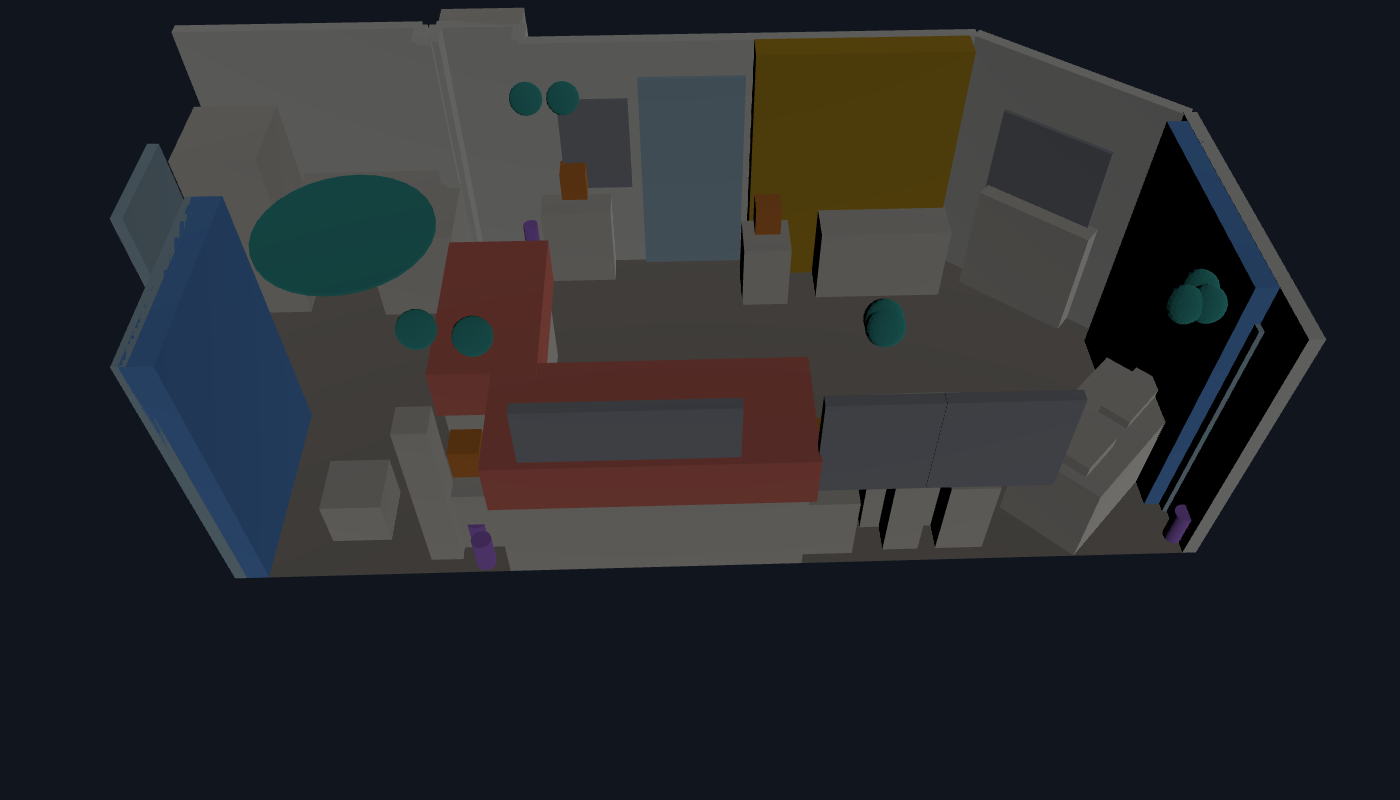
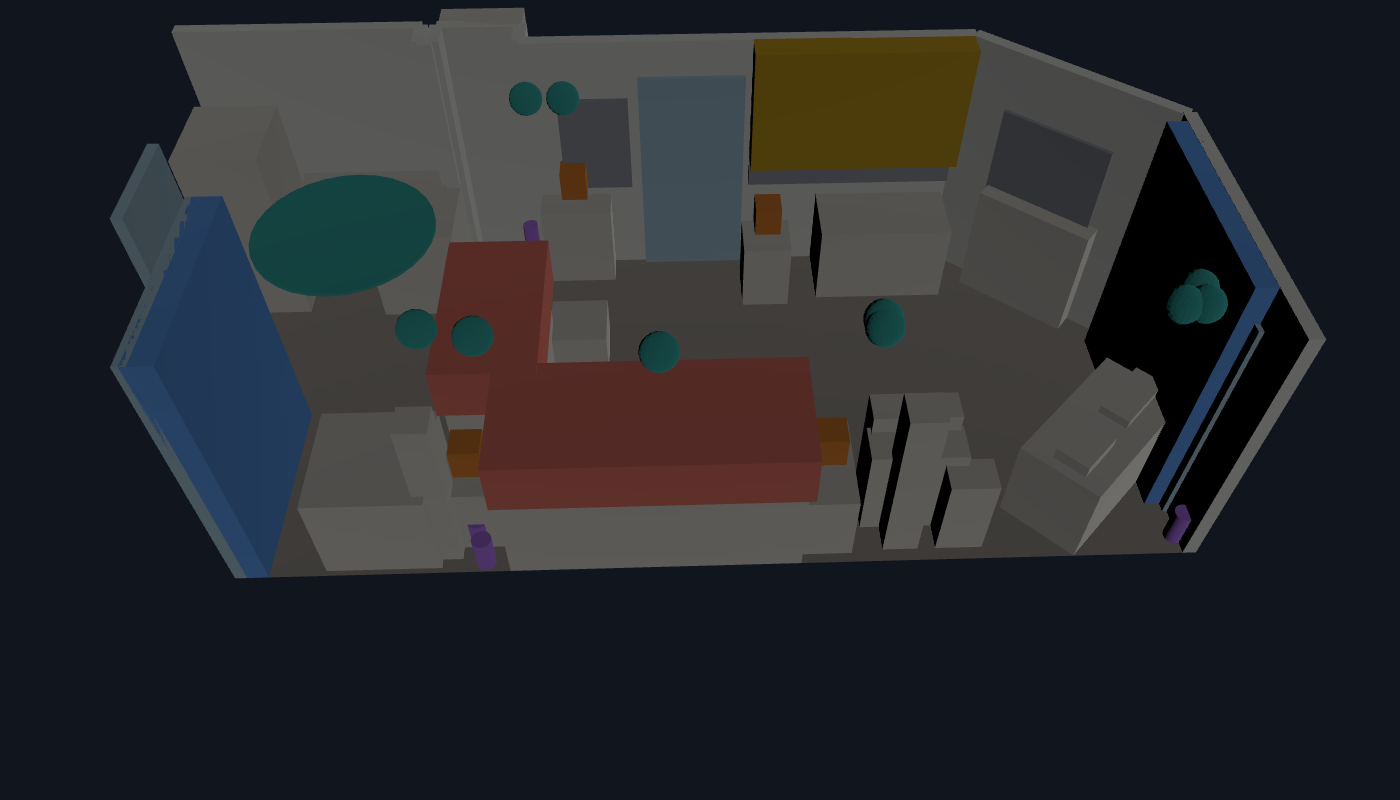
Calm breathing colours look; room updated from the walkthrough video
Claude-Session: https://claude.ai/code/session_017gsGaPRGSK5sB75B74TUa5

diff --git a/ambient_fade.py b/ambient_fade.py
@@ -20,7 +20,17 @@ BRI = float(sys.argv[1]) if len(sys.argv) > 1 else 65.0
 TURN = float(sys.argv[2]) if len(sys.argv) > 2 else 120.0     # seconds for the rainbow to go all the way round
 SPREAD = float(sys.argv[3]) if len(sys.argv) > 3 else 240.0  # degrees of rainbow across the room
                                                                # (0 = every lamp the SAME colour, fading round the rainbow together)
-STEP = 2.0                                                     # seconds between updates (the bulbs fade in between)
+BREATH = float(sys.argv[4]) if len(sys.argv) > 4 else 0.0     # seconds per breath (0 = steady brightness)
+BRI_LO = float(sys.argv[5]) if len(sys.argv) > 5 else BRI * 0.35   # brightness at the bottom of the out-breath
+STEP = 1.25 if BREATH else 2.0                                 # seconds between updates (the bulbs fade in between)
+
+
+def breath_level(t):
+    """0..1: a calm breath -- 40% of the time breathing in (rising), 60% breathing out (falling), eased."""
+    import math
+    ph = (t % BREATH) / BREATH
+    k = ph / 0.4 if ph < 0.4 else 1.0 - (ph - 0.4) / 0.6
+    return 0.5 - 0.5 * math.cos(math.pi * k)
 STOP = os.path.join(HERE, 'ambient.stop')
 
 cfg = hs.load_config()
@@ -48,10 +58,11 @@ print('Ambient fade: %d lamps, %g%% brightness, a full turn every %gs. Ctrl+C or
 t0 = time.time()
 while not os.path.exists(STOP):
     base = ((time.time() - t0 + STEP) / TURN) * 360.0       # aim where the colour will be when the fade ends
+    bri = BRI_LO + (BRI - BRI_LO) * breath_level(time.time() - t0 + STEP) if BREATH else BRI
     for i, rid in enumerate(order):
         h = base + SPREAD * (i / max(1, n - 1) - 0.5)
         xy = lambda hh: hs.rgb_to_xyb(*vivid(hh % 360.0))[:2]
-        body = {'on': {'on': True}, 'dimming': {'brightness': BRI}, 'dynamics': {'duration': int(STEP * 1000)}}
+        body = {'on': {'on': True}, 'dimming': {'brightness': bri}, 'dynamics': {'duration': int(STEP * 1000)}}
         if info.get(rid, {}).get('gradient'):
             pts = [xy(h + (j / 4.0 - 0.5) * (SPREAD / max(1, n - 1)) * 2) for j in range(5)]
             body['gradient'] = {'points': [{'color': {'xy': {'x': x, 'y': y}}} for x, y in pts]}

diff --git a/rig_control.py b/rig_control.py
@@ -118,13 +118,13 @@ def hue_lights(body):
         os.chdir(cwd)
 
 
-def start_ambient(bri, turn, spread):
+def start_ambient(bri, turn, spread, *extra):
     try:
         os.remove(os.path.join(HERE, 'ambient.stop'))
     except OSError:
         pass
     log = open('/tmp/ambient_fade.log', 'w')
-    subprocess.Popen([PY, os.path.join(HERE, 'ambient_fade.py'), str(bri), str(turn), str(spread)],
+    subprocess.Popen([PY, os.path.join(HERE, 'ambient_fade.py'), str(bri), str(turn), str(spread)] + [str(e) for e in extra],
                      cwd=HERE, stdout=log, stderr=subprocess.STDOUT, start_new_session=True)
 
 
@@ -188,6 +188,7 @@ LOOKS = {
                                                                  'color_temperature': {'mirek': 370},
                                                                  'dynamics': {'duration': 1500}}))),
     'movienight': ('Movie night', lambda: movie_lights('movie')),
+    'breathe': ('Calm breathing colours', lambda: (stop_all(), start_ambient(70, 300, 140, 10, 22))),
     'morning': ('Morning light', lambda: (stop_all(), hue_lights({'on': {'on': True}, 'dimming': {'brightness': 85.0},
                                                                  'color_temperature': {'mirek': 230},
                                                                  'dynamics': {'duration': 8000}}))),

diff --git a/dmx/safety/safety_map.py b/dmx/safety/safety_map.py
@@ -65,7 +65,9 @@ def build(plan):
                 if wz <= top:
                     return u['label']
             elif u.get('cat') == 'screen':
-                if SCREEN_Z[0] <= wz <= SCREEN_Z[1]:
+                lo = u['zlo'] if u.get('zlo') is not None else SCREEN_Z[0]
+                hi = u['zhi'] if u.get('zhi') is not None else SCREEN_Z[1]
+                if lo - 0.25 <= wz <= hi + 0.25:          # 3 in of margin round the image
                     return u['label']
             elif u.get('cat') == 'eyes':
                 lo, hi = band(u)
